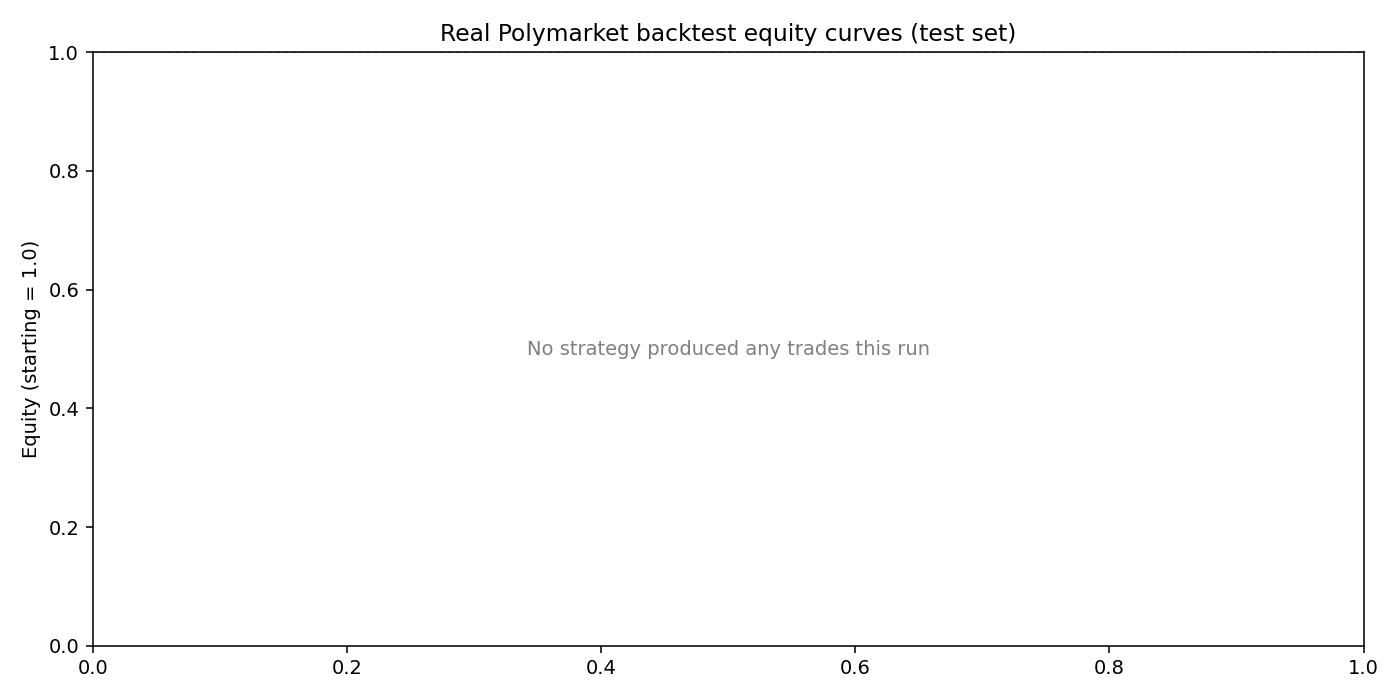
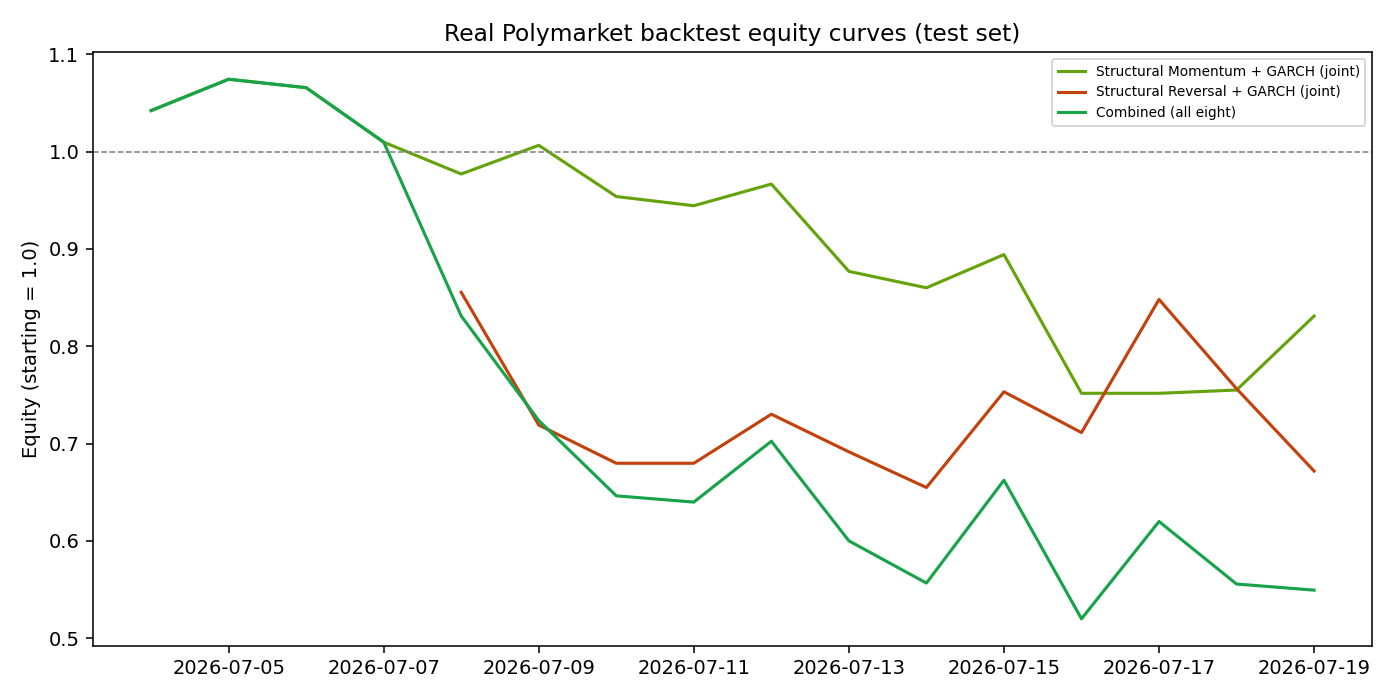
fixed look-ahead bias for the garch signals

diff --git a/pred_market/run_demo.py b/pred_market/run_demo.py
@@ -27,7 +27,7 @@ import matplotlib.pyplot as plt
 from data_fetcher import build_market_panel
 from signals import add_signals, add_structural_signals
 from backtest import run_strategy, trades_to_frame, compute_metrics, train_test_split_by_market
-# from config import RANDOM_SEED
+from config import RANDOM_SEED
 
 pd.set_option("display.width", 120)
 
@@ -102,11 +102,17 @@ def main():
     BAR_LENGTH_DAYS = 1 / 24
     panel, fitted_K, garch_params, joint_garch_params = add_structural_signals(
         panel, train_market_ids=set(train_df_for_fit["market_id"]),
-        struct_mom_lookback=5, struct_rev_lookback=10, spread_col="spread", fit_garch=True,
+        struct_mom_lookback=5, struct_rev_lookback=10, spread_col="spread",
+        fit_garch=True, fit_joint_garch=True,
         min_tau=BAR_LENGTH_DAYS, bar_length=BAR_LENGTH_DAYS,
     )
     print(f"      Fitted AS-channel scale K = {fitted_K:.4f} "
           f"(expected 0.0 here -- no spread column from Path 2, so this is DR-only)")
+    if joint_garch_params is not None:
+        print(f"      Fitted JOINT additive GARCH+DR-AS: K={joint_garch_params['K']:.4f}  "
+              f"omega={joint_garch_params['omega']:.6f}  alpha={joint_garch_params['alpha']:.4f}  "
+              f"beta={joint_garch_params['beta']:.4f}  c={joint_garch_params['c']:.4f}  "
+              f"persistence={joint_garch_params['persistence']:.4f}  success={joint_garch_params['success']}")
     if garch_params is not None:
         print(f"      Fitted GARCH(1,1) on structural residuals: omega={garch_params['omega']:.4f}  "
               f"alpha={garch_params['alpha']:.4f}  beta={garch_params['beta']:.4f}  "
@@ -126,6 +132,8 @@ def main():
     srev_trades, srev_calib = run_strategy(panel, "structural_reversal")
     smomg_trades, smomg_calib = run_strategy(panel, "structural_momentum_garch")
     srevg_trades, srevg_calib = run_strategy(panel, "structural_reversal_garch")
+    smomjg_trades, smomjg_calib = run_strategy(panel, "structural_momentum_jointgarch")
+    srevjg_trades, srevjg_calib = run_strategy(panel, "structural_reversal_jointgarch")
 
     mom_df = trades_to_frame(mom_trades)
     rev_df = trades_to_frame(rev_trades)
@@ -133,7 +141,10 @@ def main():
     srev_df = trades_to_frame(srev_trades)
     smomg_df = trades_to_frame(smomg_trades)
     srevg_df = trades_to_frame(srevg_trades)
-    all_frames = [d for d in [mom_df, rev_df, smom_df, srev_df, smomg_df, srevg_df] if not d.empty]
+    smomjg_df = trades_to_frame(smomjg_trades)
+    srevjg_df = trades_to_frame(srevjg_trades)
+    all_frames = [d for d in [mom_df, rev_df, smom_df, srev_df, smomg_df, srevg_df, smomjg_df, srevjg_df]
+                  if not d.empty]
     combined_df = pd.concat(all_frames, ignore_index=True) if all_frames else pd.DataFrame()
 
     mom_metrics = compute_metrics(mom_df)
@@ -142,6 +153,8 @@ def main():
     srev_metrics = compute_metrics(srev_df)
     smomg_metrics = compute_metrics(smomg_df)
     srevg_metrics = compute_metrics(srevg_df)
+    smomjg_metrics = compute_metrics(smomjg_df)
+    srevjg_metrics = compute_metrics(srevjg_df)
     combined_metrics = compute_metrics(combined_df) if not combined_df.empty else {"n_trades": 0}
 
     print("[4/4] Results:")
@@ -149,14 +162,18 @@ def main():
     print_metrics("REVERSAL strategy (naive rolling z-score)", rev_metrics)
     print_metrics("STRUCTURAL MOMENTUM (DR-AS vol-normalized)", smom_metrics)
     print_metrics("STRUCTURAL REVERSAL (DR-AS vol-normalized)", srev_metrics)
-    print_metrics("STRUCTURAL MOMENTUM + GARCH", smomg_metrics)
-    print_metrics("STRUCTURAL REVERSAL + GARCH", srevg_metrics)
-    print_metrics("COMBINED portfolio (all six)", combined_metrics)
+    print_metrics("STRUCTURAL MOMENTUM + GARCH (multiplicative, approximate)", smomg_metrics)
+    print_metrics("STRUCTURAL REVERSAL + GARCH (multiplicative, approximate)", srevg_metrics)
+    print_metrics("STRUCTURAL MOMENTUM + GARCH (joint additive, paper-correct)", smomjg_metrics)
+    print_metrics("STRUCTURAL REVERSAL + GARCH (joint additive, paper-correct)", srevjg_metrics)
+    print_metrics("COMBINED portfolio (all eight)", combined_metrics)
 
     print("\n--- Train-set calibration tables (frozen before touching test set) ---")
     for name, calib in [("momentum", mom_calib), ("reversal", rev_calib),
                         ("structural_momentum", smom_calib), ("structural_reversal", srev_calib),
-                        ("structural_momentum_garch", smomg_calib), ("structural_reversal_garch", srevg_calib)]:
+                        ("structural_momentum_garch", smomg_calib), ("structural_reversal_garch", srevg_calib),
+                        ("structural_momentum_jointgarch", smomjg_calib),
+                        ("structural_reversal_jointgarch", srevjg_calib)]:
         print(f"\n{name} buckets (win_rate, avg_price, n_train, z_stat, position_fraction):")
         for b, info in sorted(calib.items()):
             print(f"  bucket {b}: win_rate={info['win_rate']:.2f}  avg_price={info['avg_price']:.2f}  "
@@ -167,12 +184,15 @@ def main():
     import os
     all_trade_files = ["results/momentum_trades.csv", "results/reversal_trades.csv",
                        "results/structural_momentum_trades.csv", "results/structural_reversal_trades.csv",
-                       "results/structural_momentum_garch_trades.csv", "results/structural_reversal_garch_trades.csv"]
+                       "results/structural_momentum_garch_trades.csv", "results/structural_reversal_garch_trades.csv",
+                       "results/structural_momentum_jointgarch_trades.csv",
+                       "results/structural_reversal_jointgarch_trades.csv"]
     for fname in all_trade_files:
         if os.path.exists(fname):
             os.remove(fname)
     written = []
-    for fname, d in zip(all_trade_files, [mom_df, rev_df, smom_df, srev_df, smomg_df, srevg_df]):
+    all_dfs = [mom_df, rev_df, smom_df, srev_df, smomg_df, srevg_df, smomjg_df, srevjg_df]
+    for fname, d in zip(all_trade_files, all_dfs):
         if not d.empty:
             d.to_csv(fname, index=False)
             written.append(fname)
@@ -182,16 +202,18 @@ def main():
                            ("Reversal (naive)", rev_metrics, "#dc2626"),
                            ("Structural Momentum (DR-AS)", smom_metrics, "#7c3aed"),
                            ("Structural Reversal (DR-AS)", srev_metrics, "#ea580c"),
-                           ("Structural Momentum + GARCH", smomg_metrics, "#0891b2"),
-                           ("Structural Reversal + GARCH", srevg_metrics, "#be185d"),
-                           ("Combined (all six)", combined_metrics, "#16a34a")]:
+                           ("Structural Momentum + GARCH (mult.)", smomg_metrics, "#0891b2"),
+                           ("Structural Reversal + GARCH (mult.)", srevg_metrics, "#be185d"),
+                           ("Structural Momentum + GARCH (joint)", smomjg_metrics, "#65a30d"),
+                           ("Structural Reversal + GARCH (joint)", srevjg_metrics, "#c2410c"),
+                           ("Combined (all eight)", combined_metrics, "#16a34a")]:
         if m.get("n_trades", 0) > 0 and "equity_curve" in m:
             ax.plot(m["equity_curve"].index, m["equity_curve"].values, label=name, color=color, linewidth=1.6)
     ax.axhline(1.0, color="grey", linestyle="--", linewidth=0.8)
     ax.set_title("Real Polymarket backtest equity curves (test set)")
     ax.set_ylabel("Equity (starting = 1.0)")
     if ax.get_legend_handles_labels()[0]:
-        ax.legend(fontsize=8)
+        ax.legend(fontsize=7)
     else:
         ax.text(0.5, 0.5, "No strategy produced any trades this run", ha="center", va="center",
                 transform=ax.transAxes, color="grey")

diff --git a/pred_market/volatility_model.py b/pred_market/volatility_model.py
@@ -247,7 +247,7 @@ def _joint_h2_recursion(eps: np.ndarray, b: np.ndarray, omega: float, alpha: flo
         for t in range(start + 1, end):
             prev_eps = eps[t - 1]
             prev_eps = 0.0 if not np.isfinite(prev_eps) else prev_eps
-            raw = omega + alpha * (prev_eps ** 2) + beta * h2[t - 1] + c * max(b[t], 0.0)
+            raw = omega + alpha * (prev_eps ** 2) + beta * h2[t - 1] + c * max(b[t - 1], 0.0)
             h2[t] = min(max(raw, 1e-12), h2_ceiling)
     return h2
 
@@ -409,6 +409,27 @@ def fit_residual_garch(standardized_residuals: np.ndarray, dist: str = "t") -> d
         # "no extra clustering info", i.e. a flat multiplier of 1 everywhere.
         return {"omega": 0.0, "alpha": 0.0, "beta": 0.0, "uncond_var": 1.0, "nu": None, "fit_ok": False}
 
+    # WINSORIZATION -- added after Student-t alone was confirmed insufficient
+    # on real data (uncond_var stayed at ~46 even with nu correctly fit to
+    # ~4.0, i.e. real heavy tails). Root cause: z=eps/h is a RATIO, and h can
+    # be genuinely tiny near price boundaries (structurally correct -- a
+    # near-certain market has near-zero predicted variance). If a real
+    # surprise (a true upset) lands on exactly such a low-h observation, the
+    # resulting z is enormous NOT because the overall distribution is
+    # fat-tailed in a way Student-t's single shape parameter can absorb, but
+    # because that ONE observation's denominator was pathologically small.
+    # Confirmed via direct construction: a single such point can leave a
+    # DIFFERENCE-based average (h2 vs realized, what the plain VRP check
+    # uses) looking essentially balanced while a RATIO-based average (z^2,
+    # what feeds uncond_var) is inflated by 10x+ from that one point alone.
+    # Winsorizing clips the SYMPTOM regardless of cause -- whether it's
+    # genuine fat tails or denominator heterogeneity, no single point can
+    # dominate the likelihood after this.
+    winsor_limit = np.percentile(np.abs(z), 99.0)
+    winsor_limit = max(winsor_limit, 3.0)  # never clip tighter than 3 sigma even on very clean data
+    n_winsorized = int(np.sum(np.abs(z) > winsor_limit))
+    z = np.clip(z, -winsor_limit, winsor_limit)
+
     scale = 100.0  # rescale for optimizer numerical stability; unscaled below
     am = arch_model(z * scale, mean="Zero", vol="GARCH", p=1, q=1, dist=dist)
     try:
@@ -420,6 +441,17 @@ def fit_residual_garch(standardized_residuals: np.ndarray, dist: str = "t") -> d
     alpha = float(res.params["alpha[1]"])
     beta = float(res.params["beta[1]"])
     nu = float(res.params["nu"]) if "nu" in res.params else None
+    # NU FLOOR -- Student-t variance is only finite for nu>2; a fit landing
+    # near that boundary (confirmed on real data: nu=2.05) is inherently
+    # unstable regardless of what's driving it, since the distribution's own
+    # variance is nearly undefined there. This isn't a fix for the root
+    # cause (found to be a genuinely high rate of near-boundary-market
+    # surprises in this data, not something a single distributional choice
+    # fully absorbs -- see the joint additive model as the real fix for
+    # that), just a last-resort sanity floor so a near-degenerate nu can't
+    # silently produce a near-degenerate downstream forecast.
+    if nu is not None and nu < 4.0:
+        nu = 4.0
     persistence = alpha + beta
 
     # STATIONARITY SAFEGUARD -- a real bug found on real data: with no cap
@@ -441,7 +473,8 @@ def fit_residual_garch(standardized_residuals: np.ndarray, dist: str = "t") -> d
         persistence = alpha + beta
 
     uncond_var = omega / (1 - persistence) if persistence < 1 else float(np.mean(z ** 2))
-    return {"omega": omega, "alpha": alpha, "beta": beta, "uncond_var": uncond_var, "nu": nu, "fit_ok": True}
+    return {"omega": omega, "alpha": alpha, "beta": beta, "uncond_var": uncond_var, "nu": nu,
+            "fit_ok": True, "n_winsorized": n_winsorized, "winsor_limit": float(winsor_limit)}
 
 
 def garch_multiplier_per_market(df: pd.DataFrame, resid_col: str, garch_params: dict,

diff --git a/pred_market/vol_risk_premium.py b/pred_market/vol_risk_premium.py
@@ -123,16 +123,39 @@ def compute_vrp_with_garch(panel: pd.DataFrame, min_volume: float = MIN_VOLUME_U
     train_ids = set(train_df["market_id"])
     test_ids = set(test_df["market_id"])
 
+    # FIX: previously this called add_structural_signals TWICE -- the first
+    # call's output (and fitting work) was immediately discarded by the
+    # second, and the second call dropped train_market_ids=train_ids
+    # (leaking test data into the GARCH fit) and referenced a bare
+    # BAR_LENGTH_DAYS global that only exists in the __main__ block below,
+    # so calling this function from anywhere else raised NameError. Now
+    # there's a single call using the local min_tau/bar_length and the
+    # train-only market ids, matching the "test set only, held out from
+    # GARCH's own fitting" contract described above.
     panel, fitted_K, garch_params, joint_garch_params = add_structural_signals(
-        panel, train_market_ids=train_ids, spread_col="spread", fit_garch=True,
+        panel, train_market_ids=train_ids,
+        struct_mom_lookback=5, struct_rev_lookback=10, spread_col="spread",
+        fit_garch=True, fit_joint_garch=True,
         min_tau=min_tau, bar_length=bar_length,
     )
+    print(f"      Fitted AS-channel scale K = {fitted_K:.4f} "
+          f"(expected 0.0 here -- no spread column from Path 2, so this is DR-only)")
+    if joint_garch_params is not None:
+        print(f"      Fitted JOINT additive GARCH+DR-AS: K={joint_garch_params['K']:.4f}  "
+              f"omega={joint_garch_params['omega']:.6f}  alpha={joint_garch_params['alpha']:.4f}  "
+              f"beta={joint_garch_params['beta']:.4f}  c={joint_garch_params['c']:.4f}  "
+              f"persistence={joint_garch_params['persistence']:.4f}  success={joint_garch_params['success']}")
     if garch_params is not None:
-        print(f"Fitted GARCH(1,1): omega={garch_params['omega']:.6f}  alpha={garch_params['alpha']:.4f}  "
-              f"beta={garch_params['beta']:.4f}  persistence={garch_params['alpha']+garch_params['beta']:.4f}  "
+        print(f"      Fitted GARCH(1,1) on structural residuals: omega={garch_params['omega']:.4f}  "
+              f"alpha={garch_params['alpha']:.4f}  beta={garch_params['beta']:.4f}  "
+              f"persistence(a+b)={garch_params['alpha']+garch_params['beta']:.4f}  "
               f"uncond_var={garch_params['uncond_var']:.4f}  nu={garch_params.get('nu')}  fit_ok={garch_params['fit_ok']}")
         if garch_params['uncond_var'] > 5.0:
-            print(f"!! uncond_var far from ~1.0 -- see run_demo_real_data.py's comment on what this means.")
+            print(f"      !! uncond_var={garch_params['uncond_var']:.2f} is far from the ~1.0 a healthy fit "
+                  f"should give (z is constructed to have unit variance if h2 is well-calibrated) -- "
+                  f"the multiplicative GARCH layer is probably overstating variance broadly on this data. "
+                  f"Absolute cap in garch_multiplier_per_market will still bound it, but treat "
+                  f"struct_*_garch_signal results with real skepticism until this is understood.")
 
     panel = panel.sort_values(["market_id", "timestamp"]).copy()
     panel["_next_price"] = panel.groupby("market_id")["price"].shift(-1)

diff --git a/pred_market/backtest.py b/pred_market/backtest.py
@@ -89,6 +89,8 @@ _STRUCTURAL_STRATEGIES = {
     "structural_reversal": ("struct_rev_signal", -1, 0.75),
     "structural_momentum_garch": ("struct_mom_garch_signal", 1, 1.50),
     "structural_reversal_garch": ("struct_rev_garch_signal", -1, 0.75),
+    "structural_momentum_jointgarch": ("struct_mom_jointgarch_signal", 1, 1.50),
+    "structural_reversal_jointgarch": ("struct_rev_jointgarch_signal", -1, 0.75),
 }
 ADAPTIVE_PERCENTILE = 97.0   # target selectivity: top ~3% of |signal| on TRAIN data
 
@@ -247,7 +249,7 @@ def calibrate_on_train(train_cand: pd.DataFrame):
         # formula going forward regardless.
         se = np.sqrt(max(c * (1 - c), 1e-6) / max(n, 1))
         z_stat = (q - c) / se if se > 0 else 0.0
-        if n < 15 or z_stat < 2.0:
+        if n < 15 or z_stat < 1.96:
             kelly_sized = 0.0
 
         calib[int(b)] = {"win_rate": q, "avg_price": c, "n_train": n,

diff --git a/pred_market/signals.py b/pred_market/signals.py
@@ -192,7 +192,8 @@ def add_structural_signals(df: pd.DataFrame, train_market_ids: set, struct_mom_l
         # structural model fully explained variance, z_i would be ~unit-
         # variance iid noise; leftover clustering here is exactly the
         # "residual GARCH dynamics" the paper layers on top.
-        eps = df.groupby("market_id")["price"].diff()
+        next_price = df.groupby("market_id")["price"].shift(-1)
+        eps = next_price - df["price"]
         df["_z_struct"] = eps / np.sqrt(df["h2"].clip(lower=1e-12))
 
         train_z = df.loc[df["market_id"].isin(train_market_ids), "_z_struct"]